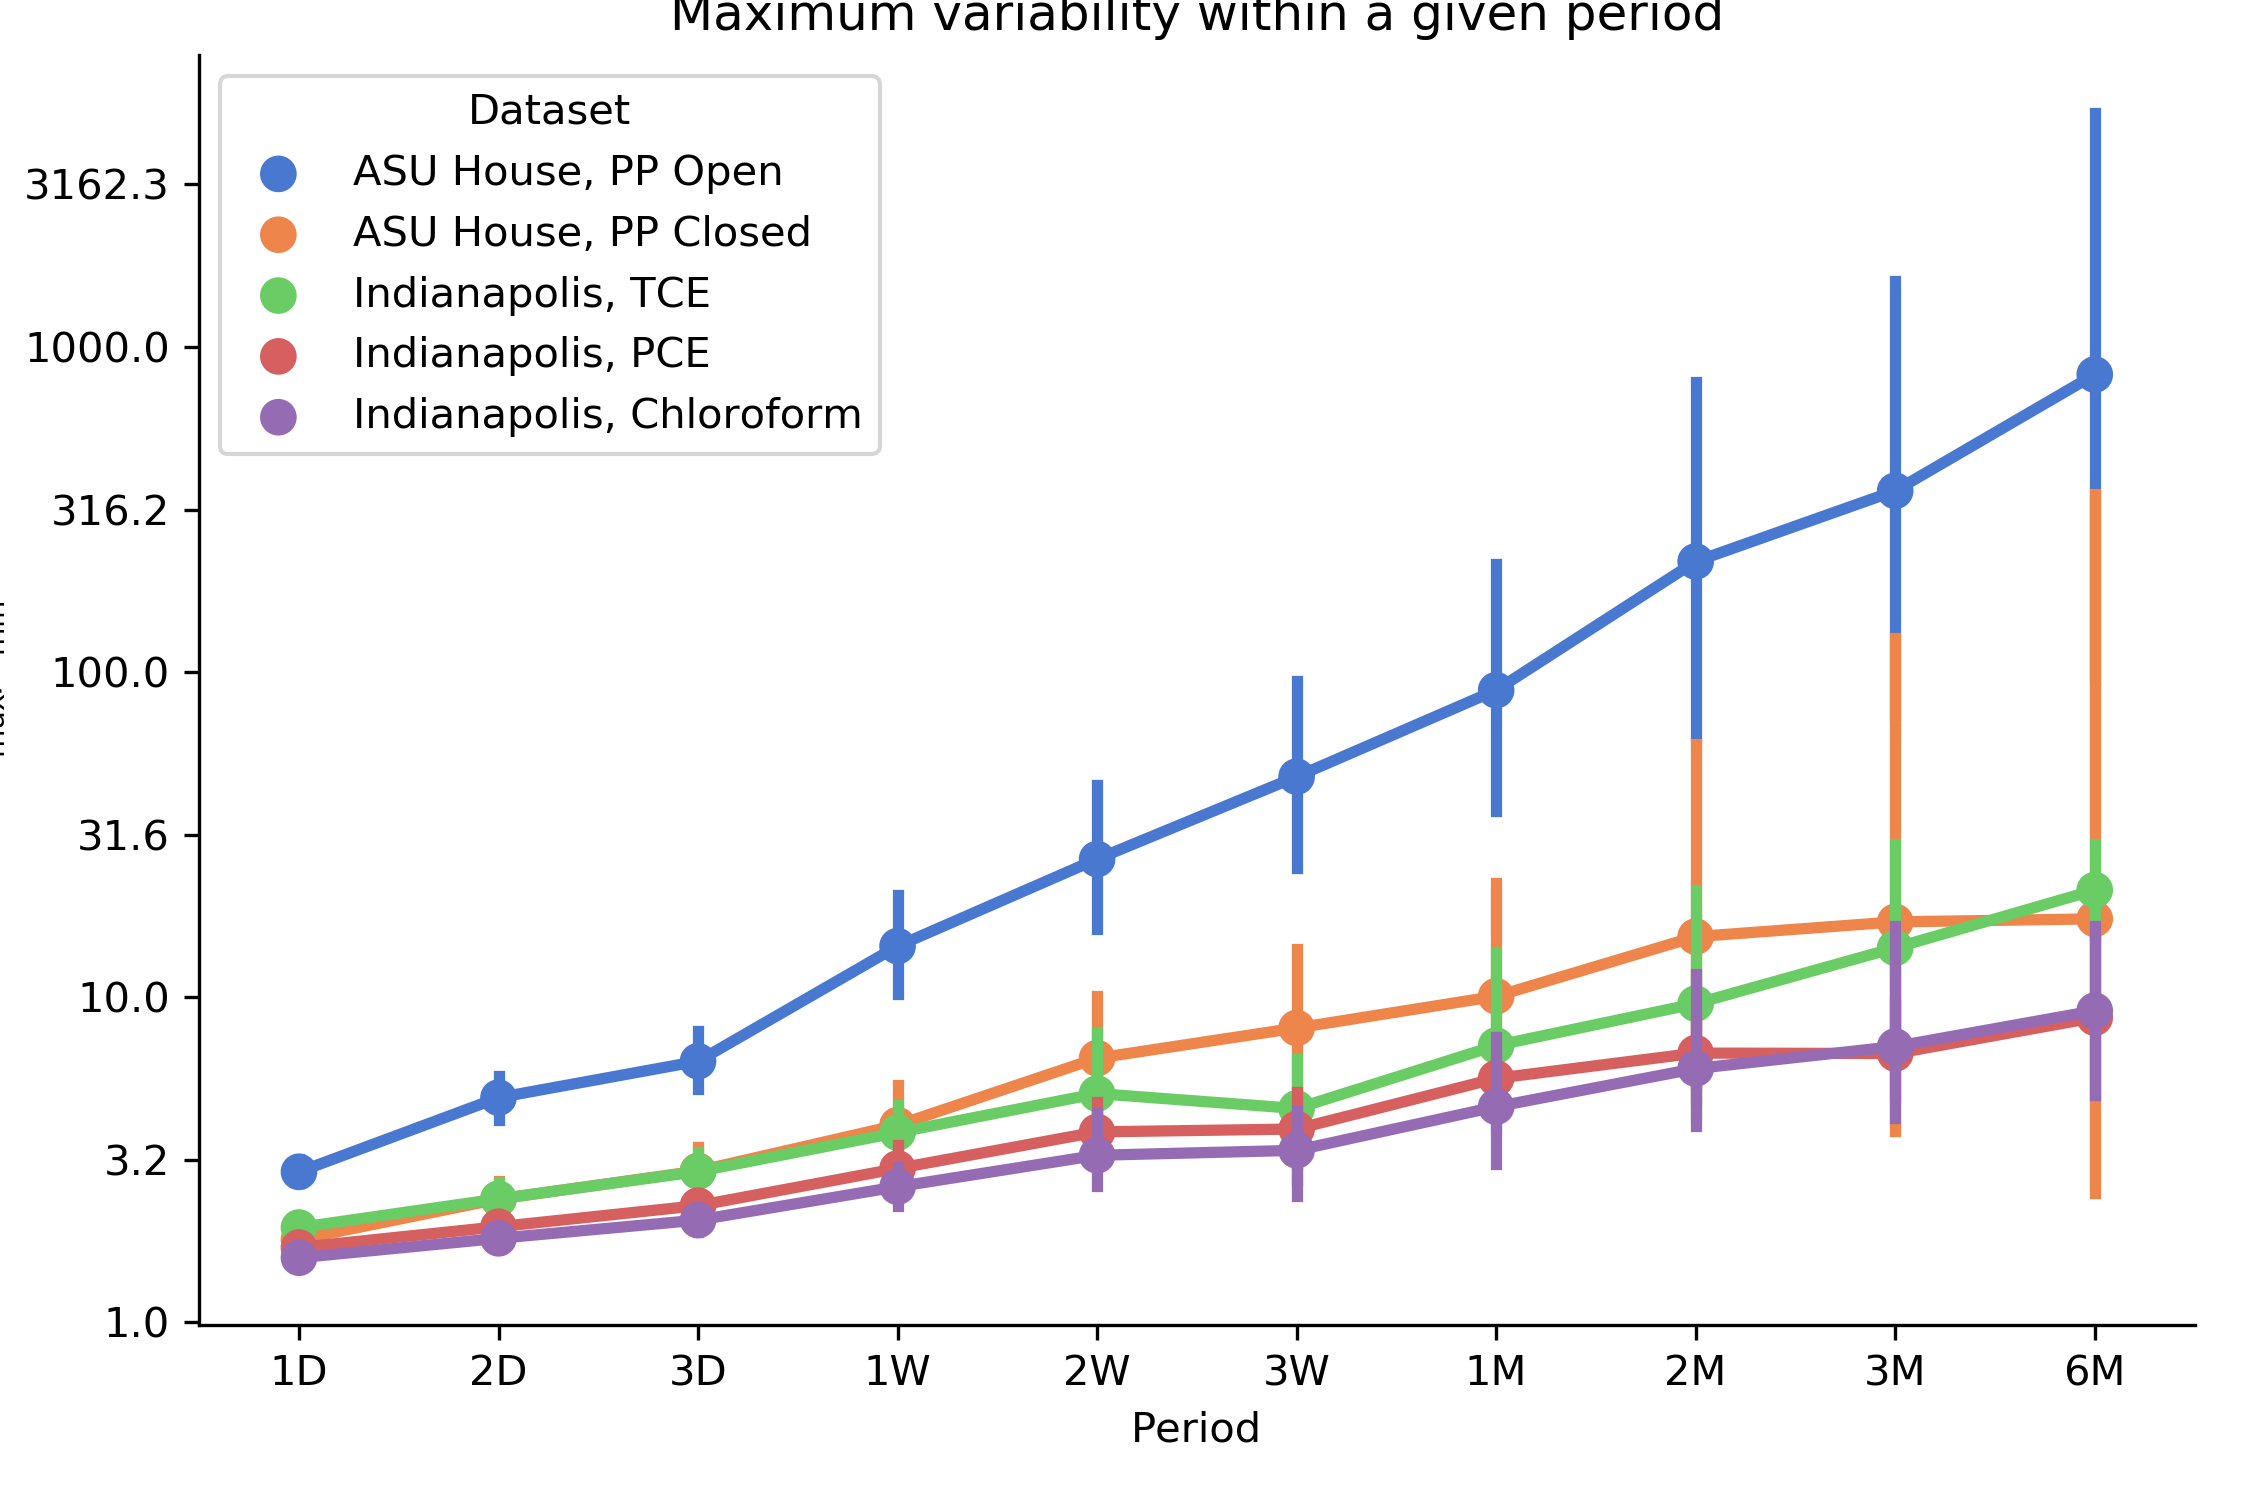
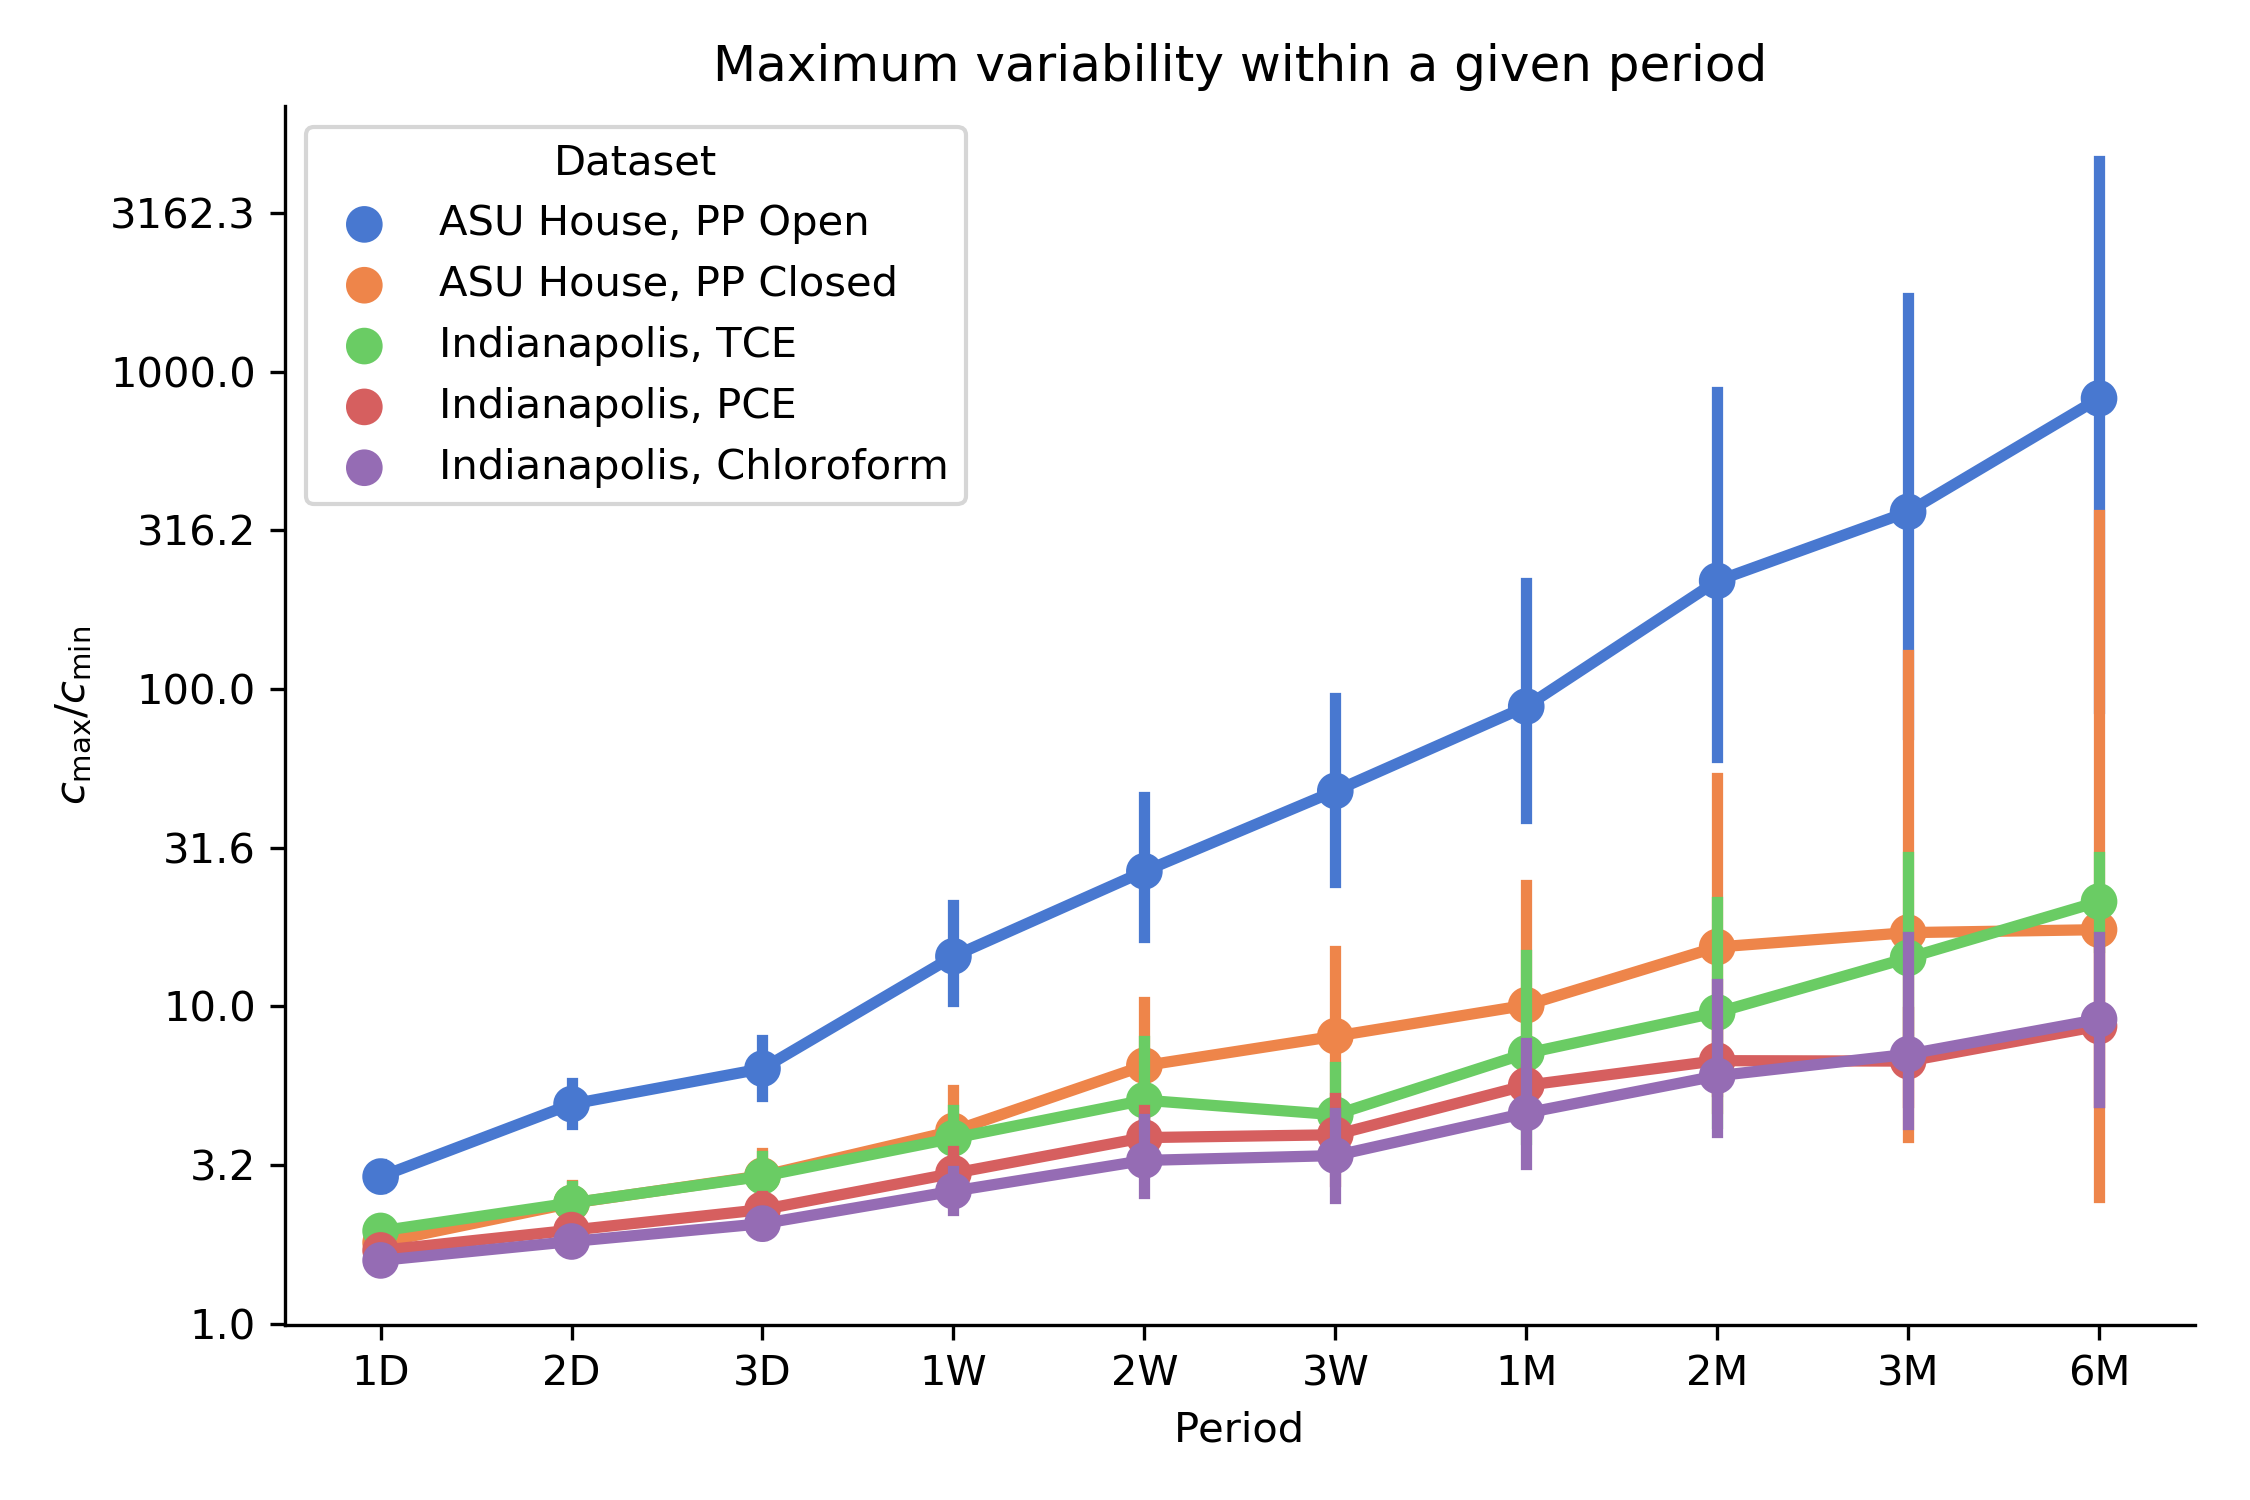
Minor fixes

diff --git a/code/land_drain_scenarios.py b/code/land_drain_scenarios.py
@@ -53,7 +53,7 @@ g = sns.lmplot(
     fit_reg=False,
     legend_out=False,
     legend=False,
-    aspect=2,
+    aspect=1.5,
 )
 
 ax = g.axes[0][0]
@@ -97,5 +97,5 @@ ax.set_title('Modeling PP scenarios, assuming constant $A_e$, and comparing to \
 
 plt.tight_layout()
 
-plt.savefig('./figures/simulation_predictions/land_drain_scenarios.png',dpi=300)
+plt.savefig('./figures/simulation_predictions/land_drain_scenarios.pdf',dpi=300)
 #plt.show()

diff --git a/code/resampling.py b/code/resampling.py
@@ -62,6 +62,6 @@ g.ax.set_yticklabels(my_ytick_labels)
 g.ax.set_xlabel('Period')
 g.ax.set_ylabel('$c_\\mathrm{max}/c_\\mathrm{min}$')
 g.ax.set_title('Maximum variability within a given period')
-
+plt.tight_layout()
 #plt.show()
-plt.savefig('./figures/temporal_variability/resampling.png',dpi=300)
+plt.savefig('./figures/temporal_variability/resampling.pdf',dpi=300)
